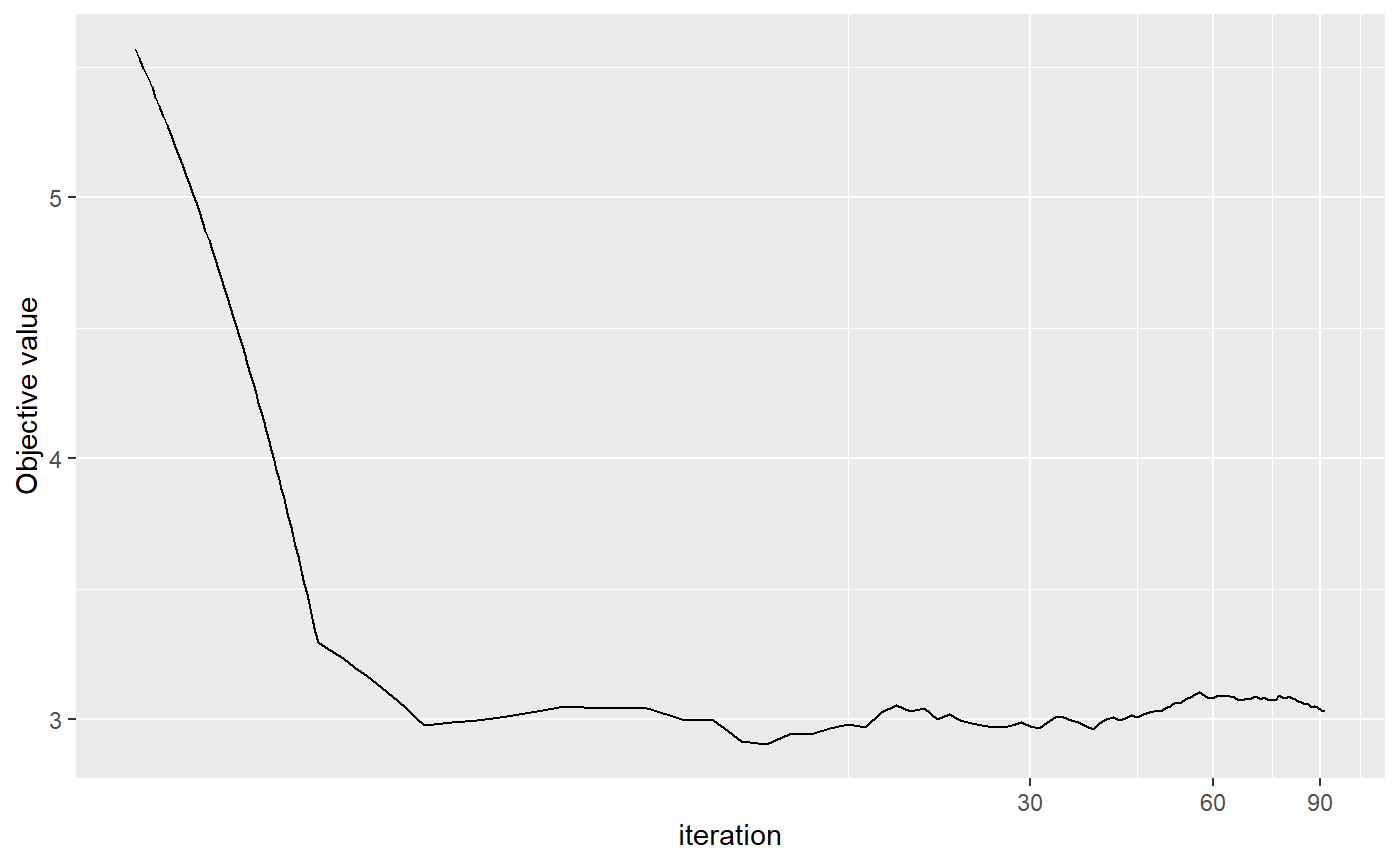
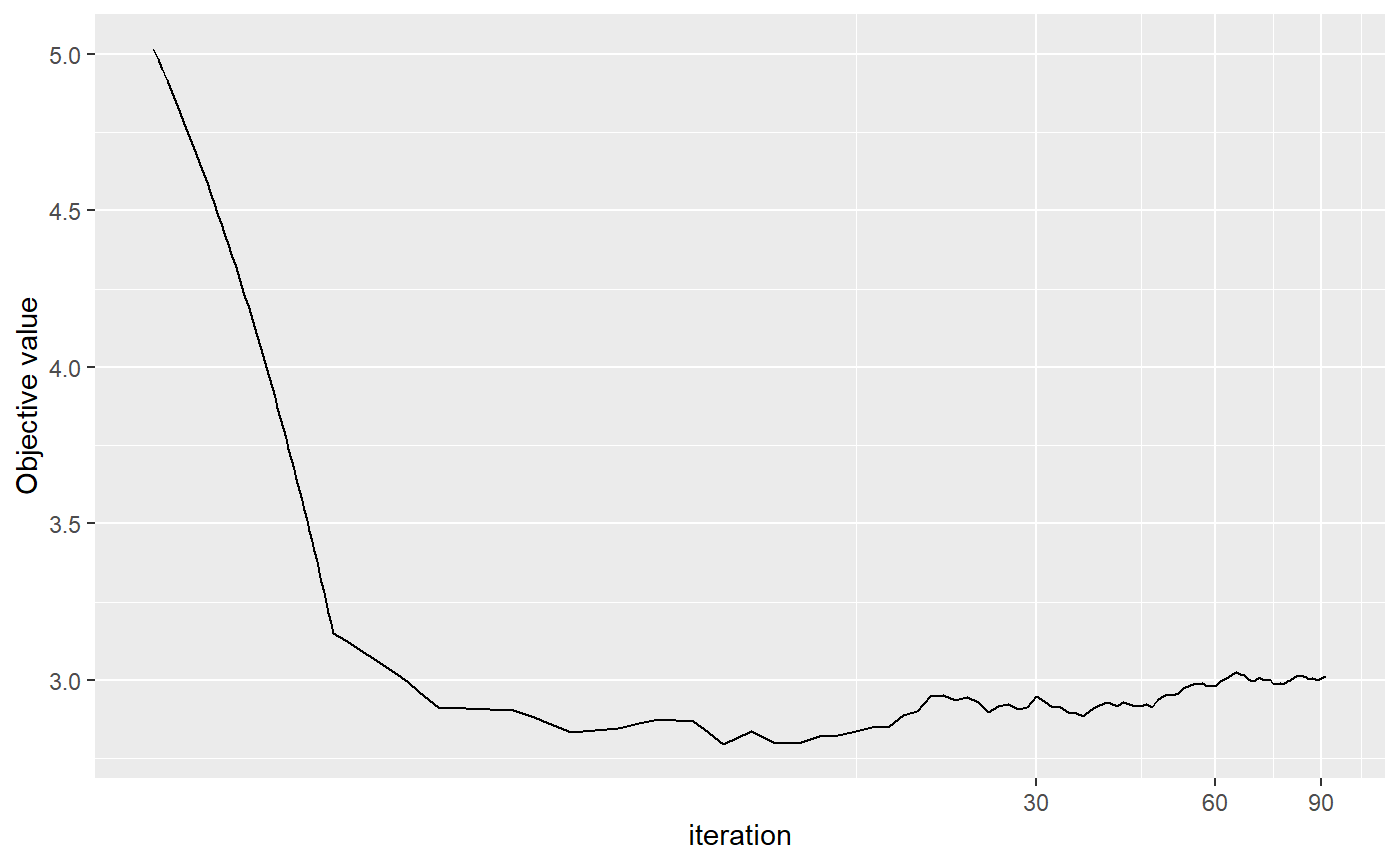
updated pkgdown

diff --git a/docs/articles/RRRR.html b/docs/articles/RRRR.html
@@ -38,7 +38,7 @@
       </button>
       <span class="navbar-brand">
         <a class="navbar-link" href="../index.html">RRRR</a>
-        <span class="version label label-danger" data-toggle="tooltip" data-placement="bottom" title="In-development version">1.0.0.9000</span>
+        <span class="version label label-warning" data-toggle="tooltip" data-placement="bottom" title="In-development version">1.0.0.9000</span>
       </span>
     </div>
 
@@ -136,10 +136,10 @@
 <a class="sourceLine" id="cb2-5" title="5"><span class="co">#&gt; Specifications:</span></a>
 <a class="sourceLine" id="cb2-6" title="6"><span class="co">#&gt;    N    P    Q    R    r </span></a>
 <a class="sourceLine" id="cb2-7" title="7"><span class="co">#&gt; 1000    3    3    1    1 </span></a>
-<a class="sourceLine" id="cb2-8" title="8"><span class="co">#&gt;       mu        A          B        D Sigma1 Sigma2 Sigma3</span></a>
-<a class="sourceLine" id="cb2-9" title="9"><span class="co">#&gt; [1,] 0.1  1.45079  0.3677603  0.43764      1      0      0</span></a>
-<a class="sourceLine" id="cb2-10" title="10"><span class="co">#&gt; [2,] 0.1 -0.36579  0.0028877  0.11699      0      1      0</span></a>
-<a class="sourceLine" id="cb2-11" title="11"><span class="co">#&gt; [3,] 0.1  0.50723 -2.1738219 -0.35745      0      0      1</span></a></code></pre></div>
+<a class="sourceLine" id="cb2-8" title="8"><span class="co">#&gt;       mu        A       B        D Sigma1 Sigma2 Sigma3</span></a>
+<a class="sourceLine" id="cb2-9" title="9"><span class="co">#&gt; [1,] 0.1  0.74225 0.68725 -1.55716      1      0      0</span></a>
+<a class="sourceLine" id="cb2-10" title="10"><span class="co">#&gt; [2,] 0.1  0.43502 0.52282  0.35465      0      1      0</span></a>
+<a class="sourceLine" id="cb2-11" title="11"><span class="co">#&gt; [3,] 0.1 -0.37060 1.29274 -1.70662      0      0      1</span></a></code></pre></div>
 <p>A number of parameters can be specified. See <code><a href="../reference/RRR_sim.html">?RRR_sim</a></code>. The default arguments are set in such a way that the matrix resulted from <span class="math inline">\(AB'\)</span> will be a reduced rank coefficient matrix with rank of <span class="math inline">\(r\)</span>.</p>
 <div class="sourceCode" id="cb3"><pre class="sourceCode r"><code class="sourceCode r"><a class="sourceLine" id="cb3-1" title="1"><span class="kw"><a href="https://rdrr.io/r/utils/str.html">str</a></span>(data)</a>
 <a class="sourceLine" id="cb3-2" title="2"><span class="co">#&gt; List of 4</span></a>
@@ -148,16 +148,16 @@
 <a class="sourceLine" id="cb3-5" title="5"><span class="co">#&gt;   ..$ N    : num 1000</span></a>
 <a class="sourceLine" id="cb3-6" title="6"><span class="co">#&gt;   ..$ Q    : num 3</span></a>
 <a class="sourceLine" id="cb3-7" title="7"><span class="co">#&gt;   ..$ R    : num 1</span></a>
-<a class="sourceLine" id="cb3-8" title="8"><span class="co">#&gt;   ..$ A    : num [1:3, 1] 1.451 -0.366 0.507</span></a>
-<a class="sourceLine" id="cb3-9" title="9"><span class="co">#&gt;   ..$ B    : num [1:3, 1] 0.36776 0.00289 -2.17382</span></a>
+<a class="sourceLine" id="cb3-8" title="8"><span class="co">#&gt;   ..$ A    : num [1:3, 1] 0.742 0.435 -0.371</span></a>
+<a class="sourceLine" id="cb3-9" title="9"><span class="co">#&gt;   ..$ B    : num [1:3, 1] 0.687 0.523 1.293</span></a>
 <a class="sourceLine" id="cb3-10" title="10"><span class="co">#&gt;   ..$ mu   : num [1:3] 0.1 0.1 0.1</span></a>
-<a class="sourceLine" id="cb3-11" title="11"><span class="co">#&gt;   ..$ D    : num [1:3, 1] 0.438 0.117 -0.357</span></a>
+<a class="sourceLine" id="cb3-11" title="11"><span class="co">#&gt;   ..$ D    : num [1:3, 1] -1.557 0.355 -1.707</span></a>
 <a class="sourceLine" id="cb3-12" title="12"><span class="co">#&gt;   ..$ r    : num 1</span></a>
 <a class="sourceLine" id="cb3-13" title="13"><span class="co">#&gt;   ..$ Sigma: num [1:3, 1:3] 1 0 0 0 1 0 0 0 1</span></a>
-<a class="sourceLine" id="cb3-14" title="14"><span class="co">#&gt;   ..$ innov: num [1:1000, 1:3] -0.7079 2.4072 0.0586 1.8135 0.0713 ...</span></a>
-<a class="sourceLine" id="cb3-15" title="15"><span class="co">#&gt;  $ y   : num [1:1000, 1:3] -1.533 -0.276 6.116 2.371 3.617 ...</span></a>
-<a class="sourceLine" id="cb3-16" title="16"><span class="co">#&gt;  $ x   : num [1:1000, 1:3] -0.127 1.107 1.059 -0.656 1.101 ...</span></a>
-<a class="sourceLine" id="cb3-17" title="17"><span class="co">#&gt;  $ z   : num [1:1000] -0.4671 0.0415 0.0637 -0.5828 -0.4703 ...</span></a>
+<a class="sourceLine" id="cb3-14" title="14"><span class="co">#&gt;   ..$ innov: num [1:1000, 1:3] -1.2173 -0.4838 0.0107 0.0778 0.9328 ...</span></a>
+<a class="sourceLine" id="cb3-15" title="15"><span class="co">#&gt;  $ y   : num [1:1000, 1:3] 1.947 -1.477 -1.381 -1.229 -0.196 ...</span></a>
+<a class="sourceLine" id="cb3-16" title="16"><span class="co">#&gt;  $ x   : num [1:1000, 1:3] -1.781 -1.779 -1.174 -0.429 -1.203 ...</span></a>
+<a class="sourceLine" id="cb3-17" title="17"><span class="co">#&gt;  $ z   : num [1:1000] -1.789 0.481 0.385 0.384 0.71 ...</span></a>
 <a class="sourceLine" id="cb3-18" title="18"><span class="co">#&gt;  - attr(*, "class")= chr [1:2] "RRR_data" "list"</span></a></code></pre></div>
 <p>The returned list of <code>RRR_sim</code> contains the input specifications and the data points <span class="math inline">\(y\)</span>, <span class="math inline">\(x\)</span> and <span class="math inline">\(z\)</span>.</p>
 </div>
@@ -175,10 +175,10 @@
 <a class="sourceLine" id="cb4-7" title="7"><span class="co">#&gt; 1000    3    3    1    1 </span></a>
 <a class="sourceLine" id="cb4-8" title="8"><span class="co">#&gt; </span></a>
 <a class="sourceLine" id="cb4-9" title="9"><span class="co">#&gt; Coefficients:</span></a>
-<a class="sourceLine" id="cb4-10" title="10"><span class="co">#&gt;             mu        A          B        D    Sigma1    Sigma2   Sigma3</span></a>
-<a class="sourceLine" id="cb4-11" title="11"><span class="co">#&gt; [1,] 0.0032497 -3.00841 -0.1827855  0.40436  2.545733 -0.072184 -0.13761</span></a>
-<a class="sourceLine" id="cb4-12" title="12"><span class="co">#&gt; [2,] 0.1659426  0.85864 -0.0057373  0.15466 -0.072184  2.605299 -0.20482</span></a>
-<a class="sourceLine" id="cb4-13" title="13"><span class="co">#&gt; [3,] 0.0789224 -1.10402  1.0132028 -0.36684 -0.137609 -0.204819  2.52938</span></a></code></pre></div>
+<a class="sourceLine" id="cb4-10" title="10"><span class="co">#&gt;            mu        A       B        D   Sigma1   Sigma2   Sigma3</span></a>
+<a class="sourceLine" id="cb4-11" title="11"><span class="co">#&gt; [1,] 0.135535  1.15977 0.40648 -1.52920  2.23754 -0.18237 -0.20750</span></a>
+<a class="sourceLine" id="cb4-12" title="12"><span class="co">#&gt; [2,] 0.129302  0.69725 0.32835  0.44172 -0.18237  2.72440  0.31704</span></a>
+<a class="sourceLine" id="cb4-13" title="13"><span class="co">#&gt; [3,] 0.073182 -0.54686 0.84981 -1.77316 -0.20750  0.31704  2.49236</span></a></code></pre></div>
 <p>The matrix <span class="math inline">\(z\)</span> and the constant <span class="math inline">\(\mu\)</span> term are optional.</p>
 <div class="sourceCode" id="cb5"><pre class="sourceCode r"><code class="sourceCode r"><a class="sourceLine" id="cb5-1" title="1">res_gmle &lt;-<span class="st"> </span><span class="kw"><a href="../reference/RRR.html">RRR</a></span>(<span class="dt">y=</span>data<span class="op">$</span>y, <span class="dt">x=</span>data<span class="op">$</span>x, <span class="dt">z=</span>data<span class="op">$</span>z, <span class="dt">mu =</span> <span class="ot">FALSE</span>)</a>
 <a class="sourceLine" id="cb5-2" title="2">res_gmle &lt;-<span class="st"> </span><span class="kw"><a href="../reference/RRR.html">RRR</a></span>(<span class="dt">y=</span>data<span class="op">$</span>y, <span class="dt">x=</span>data<span class="op">$</span>x, <span class="dt">z=</span><span class="ot">NULL</span>, <span class="dt">mu =</span> <span class="ot">TRUE</span>)</a>
@@ -202,10 +202,10 @@
 <a class="sourceLine" id="cb6-11" title="11"><span class="co">#&gt; 1000    3    3    1    1 </span></a>
 <a class="sourceLine" id="cb6-12" title="12"><span class="co">#&gt; </span></a>
 <a class="sourceLine" id="cb6-13" title="13"><span class="co">#&gt; Coefficients:</span></a>
-<a class="sourceLine" id="cb6-14" title="14"><span class="co">#&gt;            mu        A         B        D   Sigma1     Sigma2     Sigma3</span></a>
-<a class="sourceLine" id="cb6-15" title="15"><span class="co">#&gt; [1,] 0.083430 -1.50167 -0.363085  0.40837 0.631153  0.0207140  0.0371474</span></a>
-<a class="sourceLine" id="cb6-16" title="16"><span class="co">#&gt; [2,] 0.070772  0.40471  0.013208  0.12142 0.020714  0.6781725 -0.0028091</span></a>
-<a class="sourceLine" id="cb6-17" title="17"><span class="co">#&gt; [3,] 0.085147 -0.53373  2.038478 -0.38211 0.037147 -0.0028091  0.7021246</span></a></code></pre></div>
+<a class="sourceLine" id="cb6-14" title="14"><span class="co">#&gt;            mu        A        B        D    Sigma1    Sigma2    Sigma3</span></a>
+<a class="sourceLine" id="cb6-15" title="15"><span class="co">#&gt; [1,] 0.058836 -0.53522 -0.88154 -1.53621  0.624011 -0.038661 -0.031257</span></a>
+<a class="sourceLine" id="cb6-16" title="16"><span class="co">#&gt; [2,] 0.106561 -0.34578 -0.63394  0.39277 -0.038661  0.689091  0.053542</span></a>
+<a class="sourceLine" id="cb6-17" title="17"><span class="co">#&gt; [3,] 0.095238  0.27852 -1.76207 -1.74103 -0.031257  0.053542  0.720720</span></a></code></pre></div>
 <p>Additional arguments that are worth noticing are <code>itr</code>, which control the maximum number of iteration, and <code>earlystop</code>, which is the criteria to stop the algorithm early. The algorithm will stop if the improvement on objective value is small than <code>earlystop</code> <span class="math inline">\(\times\ objective\_from\_last\_iteration\)</span>.</p>
 <p>This method is an iterative optimization algorithm so we can use the inbuilt <code>plot.RRRR</code> method to see the convergence plot of the algorithm.</p>
 <div class="sourceCode" id="cb7"><pre class="sourceCode r"><code class="sourceCode r"><a class="sourceLine" id="cb7-1" title="1"><span class="kw"><a href="https://rdrr.io/r/graphics/plot.html">plot</a></span>(res_mm, <span class="dt">aes_x =</span> <span class="st">"iteration"</span>, <span class="dt">xlog10 =</span> <span class="ot">TRUE</span>)</a></code></pre></div>
@@ -240,10 +240,10 @@
 <a class="sourceLine" id="cb8-10" title="10"><span class="co">#&gt;         1000            3            1            1          100           10 </span></a>
 <a class="sourceLine" id="cb8-11" title="11"><span class="co">#&gt; </span></a>
 <a class="sourceLine" id="cb8-12" title="12"><span class="co">#&gt; Coefficients:</span></a>
-<a class="sourceLine" id="cb8-13" title="13"><span class="co">#&gt;            mu        A         B        D   Sigma1     Sigma2     Sigma3</span></a>
-<a class="sourceLine" id="cb8-14" title="14"><span class="co">#&gt; [1,] 0.084492 -1.51763 -0.359108  0.40704 0.652099  0.0200750  0.0400277</span></a>
-<a class="sourceLine" id="cb8-15" title="15"><span class="co">#&gt; [2,] 0.072444  0.40963  0.012276  0.12261 0.020075  0.6974562 -0.0029176</span></a>
-<a class="sourceLine" id="cb8-16" title="16"><span class="co">#&gt; [3,] 0.083877 -0.53810  2.019371 -0.38341 0.040028 -0.0029176  0.7239587</span></a></code></pre></div>
+<a class="sourceLine" id="cb8-13" title="13"><span class="co">#&gt;            mu        A       B        D    Sigma1    Sigma2   Sigma3</span></a>
+<a class="sourceLine" id="cb8-14" title="14"><span class="co">#&gt; [1,] 0.059484  0.53999 0.87424 -1.53543  0.634907 -0.039024 -0.03186</span></a>
+<a class="sourceLine" id="cb8-15" title="15"><span class="co">#&gt; [2,] 0.104492  0.34865 0.62611  0.39299 -0.039024  0.701179  0.05492</span></a>
+<a class="sourceLine" id="cb8-16" title="16"><span class="co">#&gt; [3,] 0.095133 -0.28034 1.75265 -1.74091 -0.031860  0.054920  0.73396</span></a></code></pre></div>
 <p>The simulated data set is of size 1000. In the above command, in the first iteration 100 realisations are used in the estimation with 10 more data points in each of the following iteration. Because of the increasing data size, the estimation will be slower the longer the algorithm run. Therefore, the estimated time left in the progress bar is not very accurate in this sense.</p>
 <p>The output from <code>ORRRR</code> can also plotted using <code>plot.RRRR</code>.</p>
 <div class="sourceCode" id="cb9"><pre class="sourceCode r"><code class="sourceCode r"><a class="sourceLine" id="cb9-1" title="1"><span class="kw"><a href="https://rdrr.io/r/graphics/plot.html">plot</a></span>(res_smm)</a></code></pre></div>
@@ -281,10 +281,10 @@
 <a class="sourceLine" id="cb11-10" title="10"><span class="co">#&gt;         2000            3            1            1         1010           10 </span></a>
 <a class="sourceLine" id="cb11-11" title="11"><span class="co">#&gt; </span></a>
 <a class="sourceLine" id="cb11-12" title="12"><span class="co">#&gt; Coefficients:</span></a>
-<a class="sourceLine" id="cb11-13" title="13"><span class="co">#&gt;            mu        A         B         D    Sigma1    Sigma2  Sigma3</span></a>
-<a class="sourceLine" id="cb11-14" title="14"><span class="co">#&gt; [1,] 0.108437 -0.95656  0.259911  0.670562 2.4579104 0.0036996 0.57735</span></a>
-<a class="sourceLine" id="cb11-15" title="15"><span class="co">#&gt; [2,] 0.139026  0.12504 -0.047056 -0.024987 0.0036996 1.4487731 0.29524</span></a>
-<a class="sourceLine" id="cb11-16" title="16"><span class="co">#&gt; [3,] 0.038041 -0.36882  2.207807 -1.086138 0.5773499 0.2952378 1.63961</span></a></code></pre></div>
+<a class="sourceLine" id="cb11-13" title="13"><span class="co">#&gt;           mu         A       B        D Sigma1   Sigma2   Sigma3</span></a>
+<a class="sourceLine" id="cb11-14" title="14"><span class="co">#&gt; [1,] 0.12464  0.776539 1.51475 -0.65345 3.6547 0.295997 1.016854</span></a>
+<a class="sourceLine" id="cb11-15" title="15"><span class="co">#&gt; [2,] 0.17385  0.280644 1.22286  0.37535 0.2960 0.883385 0.043297</span></a>
+<a class="sourceLine" id="cb11-16" title="16"><span class="co">#&gt; [3,] 0.12656 -0.088716 0.87212 -0.91176 1.0169 0.043297 1.483516</span></a></code></pre></div>
 <p>Without other arguments specified, <code>update</code> will just take the original specification in the model. If it applies to output of <code>RRRR</code>, then the default would be the default arguments in <code>ORRRR</code>, i.e., with <code>method</code> set to “SMM” and <code>addon</code> set to 10.</p>
 </div>
 <div id="ref" class="section level2">

diff --git a/docs/index.html b/docs/index.html
@@ -100,7 +100,7 @@
 <div class="sourceCode" id="cb1"><pre class="sourceCode r"><code class="sourceCode r"><a class="sourceLine" id="cb1-1" title="1"><span class="kw"><a href="https://rdrr.io/r/utils/install.packages.html">install.packages</a></span>(<span class="st">"RRRR"</span>)</a></code></pre></div>
 <p>You can install the <strong>development</strong> version from <a href="https://github.com/FinYang/RRRR">Github</a> with:</p>
 <div class="sourceCode" id="cb2"><pre class="sourceCode r"><code class="sourceCode r"><a class="sourceLine" id="cb2-1" title="1"><span class="co"># install.packages("devtools")</span></a>
-<a class="sourceLine" id="cb2-2" title="2">devtools<span class="op">::</span><span class="kw"><a href="https://rdrr.io/pkg/devtools/man/remote-reexports.html">install_github</a></span>(<span class="st">"FinYang/RRRR"</span>)</a></code></pre></div>
+<a class="sourceLine" id="cb2-2" title="2">devtools<span class="op">::</span><span class="kw"><a href="https://devtools.r-lib.org//reference/remote-reexports.html">install_github</a></span>(<span class="st">"FinYang/RRRR"</span>)</a></code></pre></div>
 </div>
 <div id="usage" class="section level2">
 <h2 class="hasAnchor">
@@ -142,22 +142,26 @@
 <a class="sourceLine" id="cb3-19" title="19"><span class="kw"><a href="https://rdrr.io/r/graphics/plot.html">plot</a></span>(res)</a></code></pre></div>
 <p><img src="reference/figures/README-unnamed-chunk-2-1.png"><!-- --></p>
 <div class="sourceCode" id="cb4"><pre class="sourceCode r"><code class="sourceCode r"><a class="sourceLine" id="cb4-1" title="1"></a>
-<a class="sourceLine" id="cb4-2" title="2">newdata &lt;-<span class="st"> </span><span class="kw"><a href="reference/RRR_sim.html">RRR_sim</a></span>()</a>
-<a class="sourceLine" id="cb4-3" title="3">res2 &lt;-<span class="st"> </span><span class="kw"><a href="https://rdrr.io/r/stats/update.html">update</a></span>(res, <span class="dt">newy=</span>newdata<span class="op">$</span>y, <span class="dt">newx=</span>newdata<span class="op">$</span>x, <span class="dt">newz=</span>newdata<span class="op">$</span>z)</a>
-<a class="sourceLine" id="cb4-4" title="4">res2</a>
-<a class="sourceLine" id="cb4-5" title="5"><span class="co">#&gt; Online Robust Reduced-Rank Regression</span></a>
-<a class="sourceLine" id="cb4-6" title="6"><span class="co">#&gt; ------</span></a>
-<a class="sourceLine" id="cb4-7" title="7"><span class="co">#&gt; Stochastic Majorisation-Minimisation</span></a>
-<a class="sourceLine" id="cb4-8" title="8"><span class="co">#&gt; ------------</span></a>
-<a class="sourceLine" id="cb4-9" title="9"><span class="co">#&gt; Specifications:</span></a>
-<a class="sourceLine" id="cb4-10" title="10"><span class="co">#&gt;            N            P            R            r initial_size        addon </span></a>
-<a class="sourceLine" id="cb4-11" title="11"><span class="co">#&gt;         2000            3            1            1         1010           10 </span></a>
-<a class="sourceLine" id="cb4-12" title="12"><span class="co">#&gt; </span></a>
-<a class="sourceLine" id="cb4-13" title="13"><span class="co">#&gt; Coefficients:</span></a>
-<a class="sourceLine" id="cb4-14" title="14"><span class="co">#&gt;            mu        A       B        D   Sigma1   Sigma2  Sigma3</span></a>
-<a class="sourceLine" id="cb4-15" title="15"><span class="co">#&gt; [1,] 0.126409 -0.33078 -1.4115 0.052945  3.31685 -0.23739 -2.0674</span></a>
-<a class="sourceLine" id="cb4-16" title="16"><span class="co">#&gt; [2,] 0.133965 -0.27369 -1.1083 1.052167 -0.23739  0.85202  0.3051</span></a>
-<a class="sourceLine" id="cb4-17" title="17"><span class="co">#&gt; [3,] 0.036535 -0.23098  1.4092 1.479796 -2.06742  0.30510  2.9463</span></a></code></pre></div>
+<a class="sourceLine" id="cb4-2" title="2">newdata &lt;-<span class="st"> </span><span class="kw"><a href="reference/RRR_sim.html">RRR_sim</a></span>(<span class="dt">A =</span> data<span class="op">$</span>spec<span class="op">$</span>A,</a>
+<a class="sourceLine" id="cb4-3" title="3">                   <span class="dt">B =</span> data<span class="op">$</span>spec<span class="op">$</span>B,</a>
+<a class="sourceLine" id="cb4-4" title="4">                   <span class="dt">D =</span> data<span class="op">$</span>spec<span class="op">$</span>D)</a>
+<a class="sourceLine" id="cb4-5" title="5">res2 &lt;-<span class="st"> </span><span class="kw"><a href="https://rdrr.io/r/stats/update.html">update</a></span>(res, <span class="dt">newy=</span>newdata<span class="op">$</span>y, <span class="dt">newx=</span>newdata<span class="op">$</span>x, <span class="dt">newz=</span>newdata<span class="op">$</span>z)</a>
+<a class="sourceLine" id="cb4-6" title="6">res2</a>
+<a class="sourceLine" id="cb4-7" title="7"><span class="co">#&gt; Online Robust Reduced-Rank Regression</span></a>
+<a class="sourceLine" id="cb4-8" title="8"><span class="co">#&gt; ------</span></a>
+<a class="sourceLine" id="cb4-9" title="9"><span class="co">#&gt; Stochastic Majorisation-Minimisation</span></a>
+<a class="sourceLine" id="cb4-10" title="10"><span class="co">#&gt; ------------</span></a>
+<a class="sourceLine" id="cb4-11" title="11"><span class="co">#&gt; Specifications:</span></a>
+<a class="sourceLine" id="cb4-12" title="12"><span class="co">#&gt;            N            P            R            r initial_size        addon </span></a>
+<a class="sourceLine" id="cb4-13" title="13"><span class="co">#&gt;         2000            3            1            1         1010           10 </span></a>
+<a class="sourceLine" id="cb4-14" title="14"><span class="co">#&gt; </span></a>
+<a class="sourceLine" id="cb4-15" title="15"><span class="co">#&gt; Coefficients:</span></a>
+<a class="sourceLine" id="cb4-16" title="16"><span class="co">#&gt;            mu        A        B       D    Sigma1    Sigma2    Sigma3</span></a>
+<a class="sourceLine" id="cb4-17" title="17"><span class="co">#&gt; [1,] 0.073939 -0.15981  1.52031 0.20894  0.675436 -0.021789  0.040888</span></a>
+<a class="sourceLine" id="cb4-18" title="18"><span class="co">#&gt; [2,] 0.142791  0.45099  0.96270 1.11702 -0.021789  0.679136 -0.024140</span></a>
+<a class="sourceLine" id="cb4-19" title="19"><span class="co">#&gt; [3,] 0.107647  0.81759 -0.67044 1.95708  0.040888 -0.024140  0.703949</span></a>
+<a class="sourceLine" id="cb4-20" title="20"><span class="kw"><a href="https://rdrr.io/r/graphics/plot.html">plot</a></span>(res2)</a></code></pre></div>
+<p><img src="reference/figures/README-unnamed-chunk-2-2.png"><!-- --></p>
 </div>
 <div id="license" class="section level2">
 <h2 class="hasAnchor">

diff --git a/docs/reference/update.RRRR.html b/docs/reference/update.RRRR.html
@@ -88,7 +88,7 @@ SAASample Average Approximation
       </button>
       <span class="navbar-brand">
         <a class="navbar-link" href="../index.html">RRRR</a>
-        <span class="version label label-danger" data-toggle="tooltip" data-placement="bottom" title="In-development version">1.0.0.9000</span>
+        <span class="version label label-warning" data-toggle="tooltip" data-placement="bottom" title="In-development version">1.0.0.9000</span>
       </span>
     </div>
 
@@ -248,7 +248,9 @@ the innovation's distribution.</p>
     <pre class="examples"><div class='input'><span class='co'># \donttest{</span>
 <span class='fu'><a href='https://rdrr.io/r/base/Random.html'>set.seed</a></span>(<span class='fl'>2222</span>)
 <span class='no'>data</span> <span class='kw'>&lt;-</span> <span class='fu'><a href='RRR_sim.html'>RRR_sim</a></span>()
-<span class='no'>newdata</span> <span class='kw'>&lt;-</span> <span class='fu'><a href='RRR_sim.html'>RRR_sim</a></span>()
+<span class='no'>newdata</span> <span class='kw'>&lt;-</span> <span class='fu'><a href='RRR_sim.html'>RRR_sim</a></span>(<span class='kw'>A</span> <span class='kw'>=</span> <span class='no'>data</span>$<span class='no'>spec</span>$<span class='no'>A</span>,
+                   <span class='kw'>B</span> <span class='kw'>=</span> <span class='no'>data</span>$<span class='no'>spec</span>$<span class='no'>B</span>,
+                   <span class='kw'>D</span> <span class='kw'>=</span> <span class='no'>data</span>$<span class='no'>spec</span>$<span class='no'>D</span>)
 <span class='no'>res</span> <span class='kw'>&lt;-</span> <span class='fu'><a href='ORRRR.html'>ORRRR</a></span>(<span class='kw'>y</span><span class='kw'>=</span><span class='no'>data</span>$<span class='no'>y</span>, <span class='kw'>x</span><span class='kw'>=</span><span class='no'>data</span>$<span class='no'>x</span>, <span class='kw'>z</span> <span class='kw'>=</span> <span class='no'>data</span>$<span class='no'>z</span>)
 <span class='no'>res</span> <span class='kw'>&lt;-</span> <span class='fu'><a href='https://rdrr.io/r/stats/update.html'>update</a></span>(<span class='no'>res</span>, <span class='kw'>newy</span><span class='kw'>=</span><span class='no'>newdata</span>$<span class='no'>y</span>, <span class='kw'>newx</span><span class='kw'>=</span><span class='no'>newdata</span>$<span class='no'>x</span>, <span class='kw'>newz</span><span class='kw'>=</span><span class='no'>newdata</span>$<span class='no'>z</span>)
 <span class='no'>res</span></div><div class='output co'>#&gt; Online Robust Reduced-Rank Regression
@@ -260,10 +262,10 @@ the innovation's distribution.</p>
 #&gt;         2000            3            1            1         1010           10 
 #&gt; 
 #&gt; Coefficients:
-#&gt;            mu         A        B       D    Sigma1    Sigma2    Sigma3
-#&gt; [1,] 0.084993 -0.058885  1.76058 0.41666  0.828473 -0.014158 -0.206952
-#&gt; [2,] 0.180532  0.177263  1.13197 1.69790 -0.014158  1.065701 -0.038495
-#&gt; [3,] 0.020395  0.310392 -0.56519 1.07567 -0.206952 -0.038495  1.760657</div><div class='input'># }
+#&gt;            mu        A        B       D    Sigma1    Sigma2    Sigma3
+#&gt; [1,] 0.081655 -0.15809  1.49669 0.19977  0.678863 -0.025287  0.040417
+#&gt; [2,] 0.144781  0.45746  0.95360 1.10724 -0.025287  0.673433 -0.026088
+#&gt; [3,] 0.097791  0.82678 -0.66457 1.96356  0.040417 -0.026088  0.699273</div><div class='input'># }
 </div></pre>
   </div>
   <div class="col-md-3 hidden-xs hidden-sm" id="sidebar">

diff --git a/docs/news/index.html b/docs/news/index.html
@@ -79,7 +79,7 @@
       </button>
       <span class="navbar-brand">
         <a class="navbar-link" href="../index.html">RRRR</a>
-        <span class="version label label-danger" data-toggle="tooltip" data-placement="bottom" title="In-development version">1.0.0.9000</span>
+        <span class="version label label-warning" data-toggle="tooltip" data-placement="bottom" title="In-development version">1.0.0.9000</span>
       </span>
     </div>
 
@@ -129,6 +129,10 @@
 <h1 class="page-header">
 <a href="#rrrr-1009000" class="anchor"></a>RRRR 1.0.0.9000<small> Unreleased </small>
 </h1>
+<ul>
+<li>Improved documentation</li>
+<li>Bug fix: update.RRRR now includes previous history</li>
+</ul>
 </div>
     <div id="rrrr-100" class="section level1">
 <h1 class="page-header">

diff --git a/docs/reference/RRRR.html b/docs/reference/RRRR.html
@@ -83,7 +83,7 @@ for the innovations. This method is an iterative optimization algorithm. See Ref
       </button>
       <span class="navbar-brand">
         <a class="navbar-link" href="../index.html">RRRR</a>
-        <span class="version label label-danger" data-toggle="tooltip" data-placement="bottom" title="In-development version">1.0.0.9000</span>
+        <span class="version label label-warning" data-toggle="tooltip" data-placement="bottom" title="In-development version">1.0.0.9000</span>
       </span>
     </div>
 

diff --git a/docs/reference/ORRRR.html b/docs/reference/ORRRR.html
@@ -86,7 +86,7 @@ SAASample Average Approximation
       </button>
       <span class="navbar-brand">
         <a class="navbar-link" href="../index.html">RRRR</a>
-        <span class="version label label-danger" data-toggle="tooltip" data-placement="bottom" title="In-development version">1.0.0.9000</span>
+        <span class="version label label-warning" data-toggle="tooltip" data-placement="bottom" title="In-development version">1.0.0.9000</span>
       </span>
     </div>
 

diff --git a/docs/reference/RRR_sim.html b/docs/reference/RRR_sim.html
@@ -82,7 +82,7 @@ of the simulated data." />
       </button>
       <span class="navbar-brand">
         <a class="navbar-link" href="../index.html">RRRR</a>
-        <span class="version label label-danger" data-toggle="tooltip" data-placement="bottom" title="In-development version">1.0.0.9000</span>
+        <span class="version label label-warning" data-toggle="tooltip" data-placement="bottom" title="In-development version">1.0.0.9000</span>
       </span>
     </div>
 

diff --git a/docs/reference/RRR.html b/docs/reference/RRR.html
@@ -85,7 +85,7 @@ outliers." />
       </button>
       <span class="navbar-brand">
         <a class="navbar-link" href="../index.html">RRRR</a>
-        <span class="version label label-danger" data-toggle="tooltip" data-placement="bottom" title="In-development version">1.0.0.9000</span>
+        <span class="version label label-warning" data-toggle="tooltip" data-placement="bottom" title="In-development version">1.0.0.9000</span>
       </span>
     </div>
 

diff --git a/docs/articles/index.html b/docs/articles/index.html
@@ -79,7 +79,7 @@
       </button>
       <span class="navbar-brand">
         <a class="navbar-link" href="../index.html">RRRR</a>
-        <span class="version label label-danger" data-toggle="tooltip" data-placement="bottom" title="In-development version">1.0.0.9000</span>
+        <span class="version label label-warning" data-toggle="tooltip" data-placement="bottom" title="In-development version">1.0.0.9000</span>
       </span>
     </div>
 

diff --git a/docs/reference/RRRR-package.html b/docs/reference/RRRR-package.html
@@ -81,7 +81,7 @@
       </button>
       <span class="navbar-brand">
         <a class="navbar-link" href="../index.html">RRRR</a>
-        <span class="version label label-danger" data-toggle="tooltip" data-placement="bottom" title="In-development version">1.0.0.9000</span>
+        <span class="version label label-warning" data-toggle="tooltip" data-placement="bottom" title="In-development version">1.0.0.9000</span>
       </span>
     </div>
 

diff --git a/docs/reference/index.html b/docs/reference/index.html
@@ -79,7 +79,7 @@
       </button>
       <span class="navbar-brand">
         <a class="navbar-link" href="../index.html">RRRR</a>
-        <span class="version label label-danger" data-toggle="tooltip" data-placement="bottom" title="In-development version">1.0.0.9000</span>
+        <span class="version label label-warning" data-toggle="tooltip" data-placement="bottom" title="In-development version">1.0.0.9000</span>
       </span>
     </div>
 

diff --git a/docs/reference/plot.RRRR.html b/docs/reference/plot.RRRR.html
@@ -81,7 +81,7 @@
       </button>
       <span class="navbar-brand">
         <a class="navbar-link" href="../index.html">RRRR</a>
-        <span class="version label label-danger" data-toggle="tooltip" data-placement="bottom" title="In-development version">1.0.0.9000</span>
+        <span class="version label label-warning" data-toggle="tooltip" data-placement="bottom" title="In-development version">1.0.0.9000</span>
       </span>
     </div>
 
